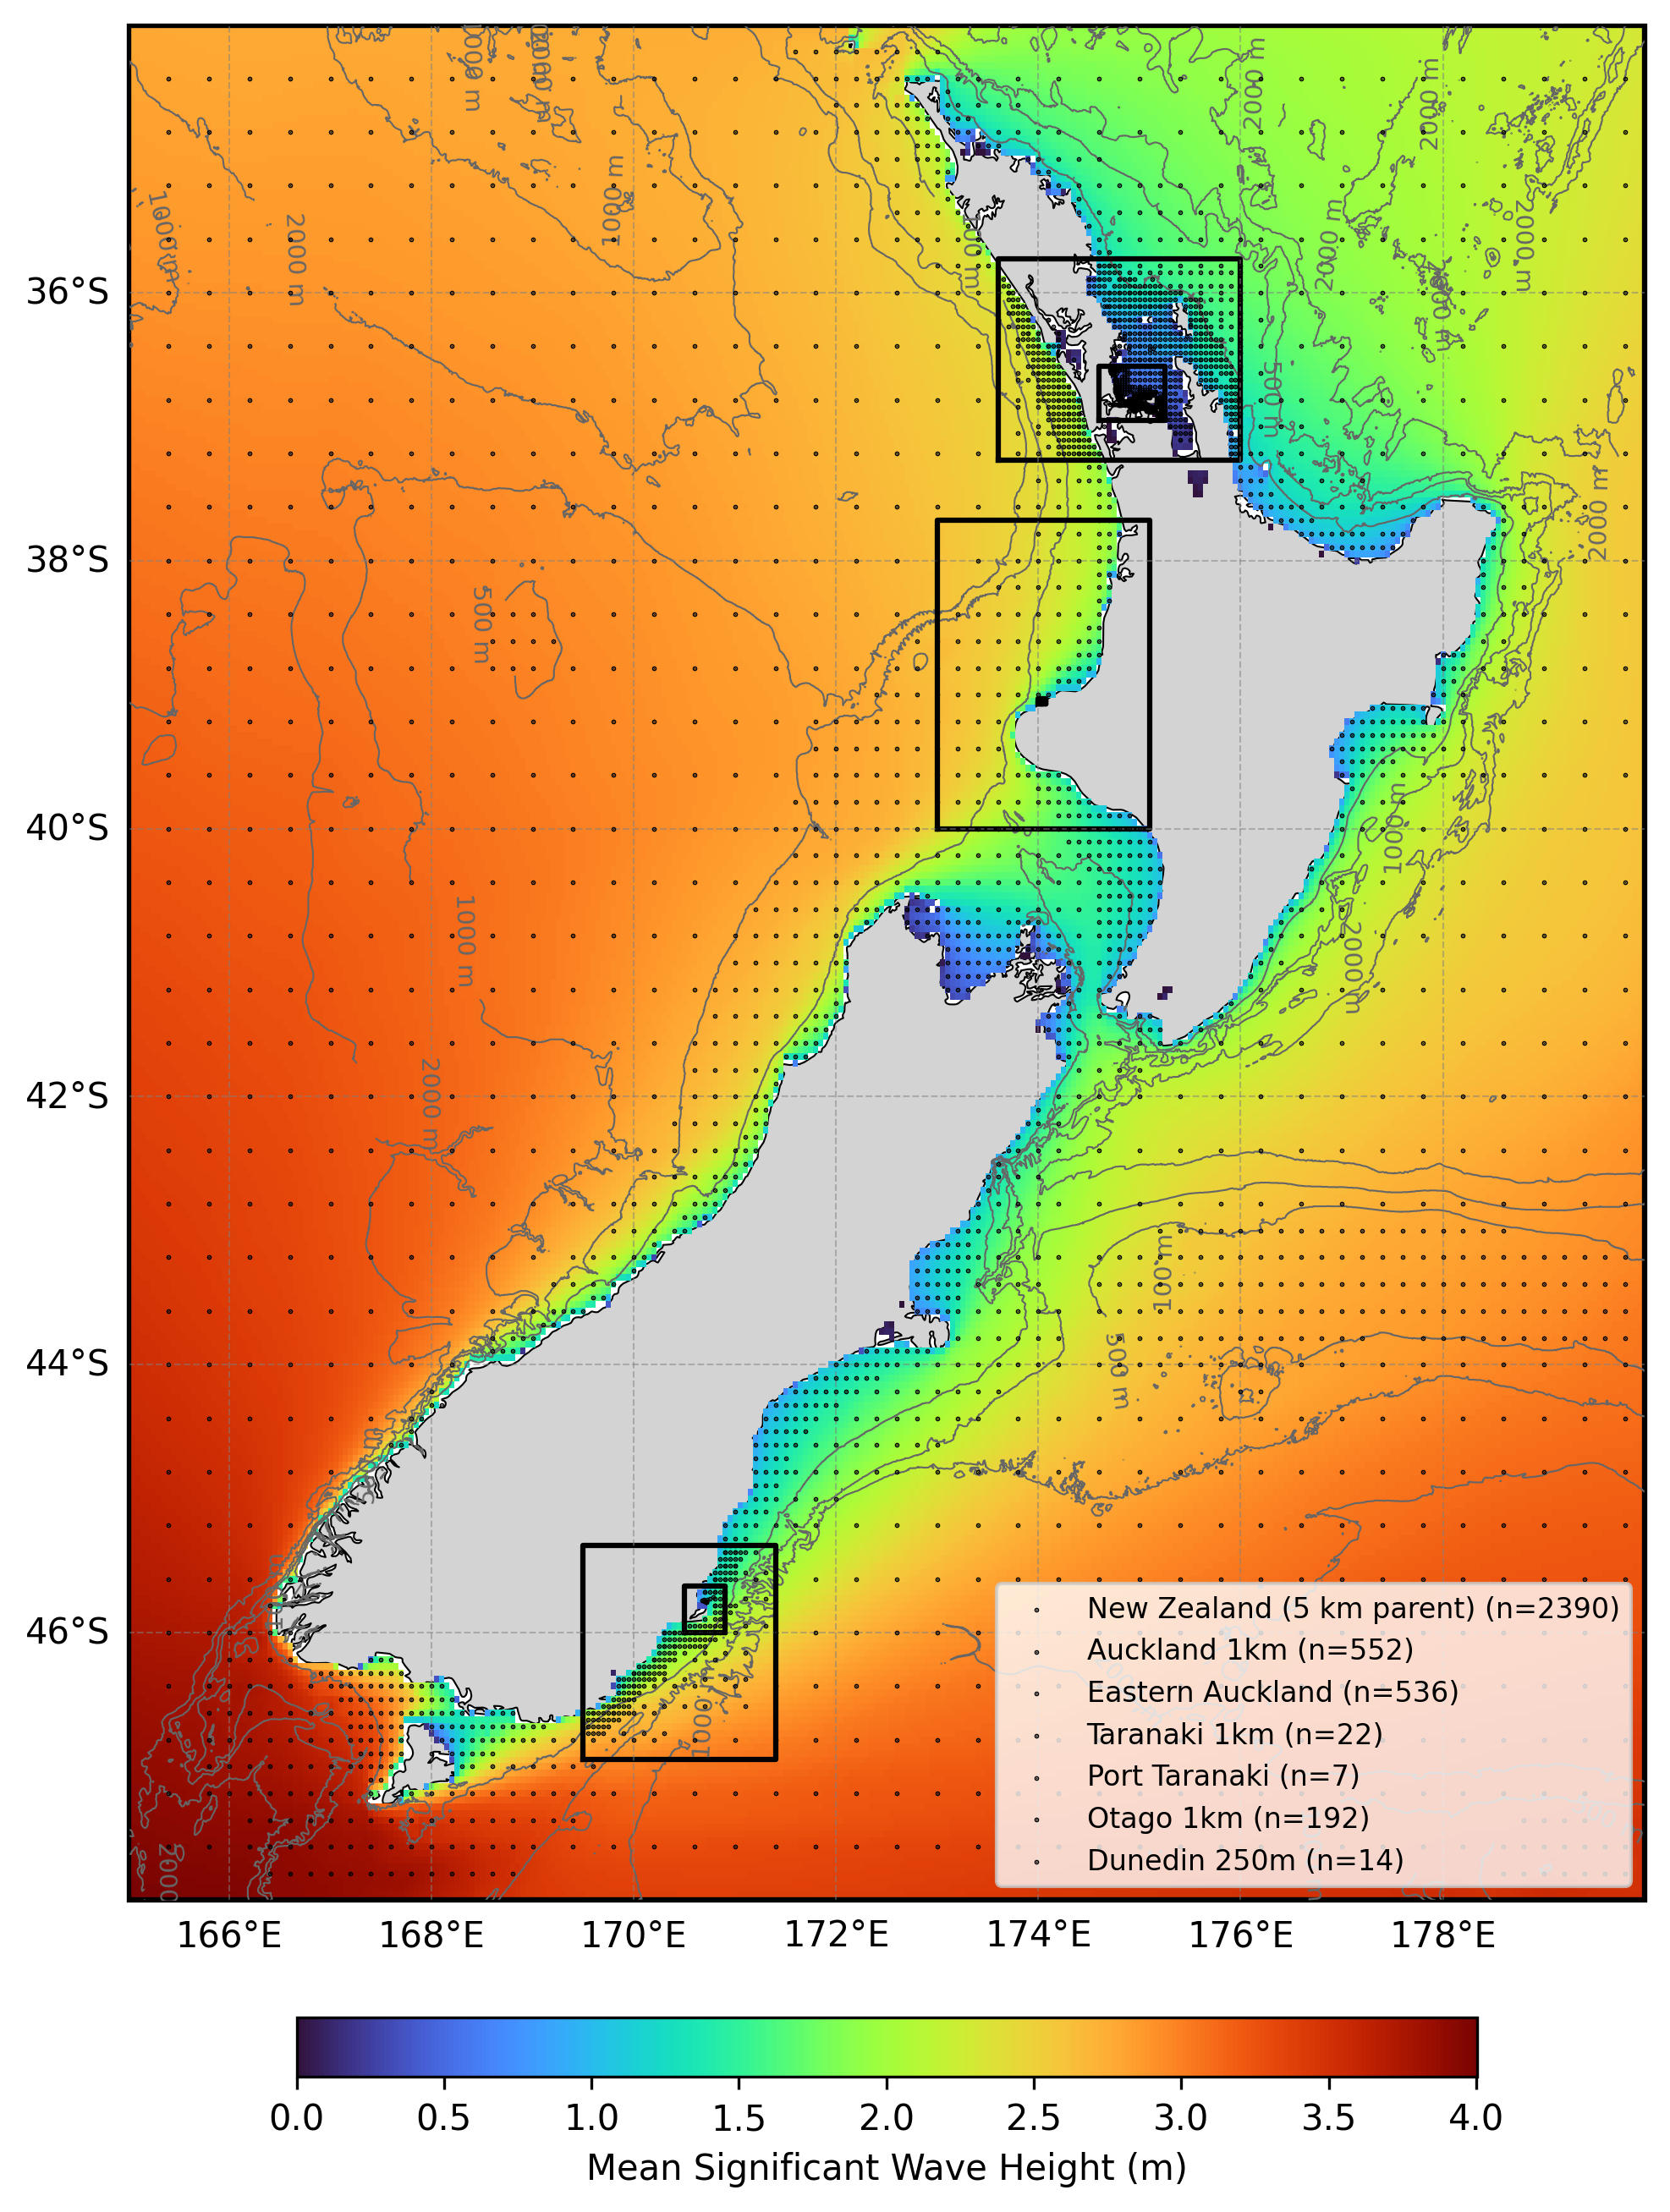
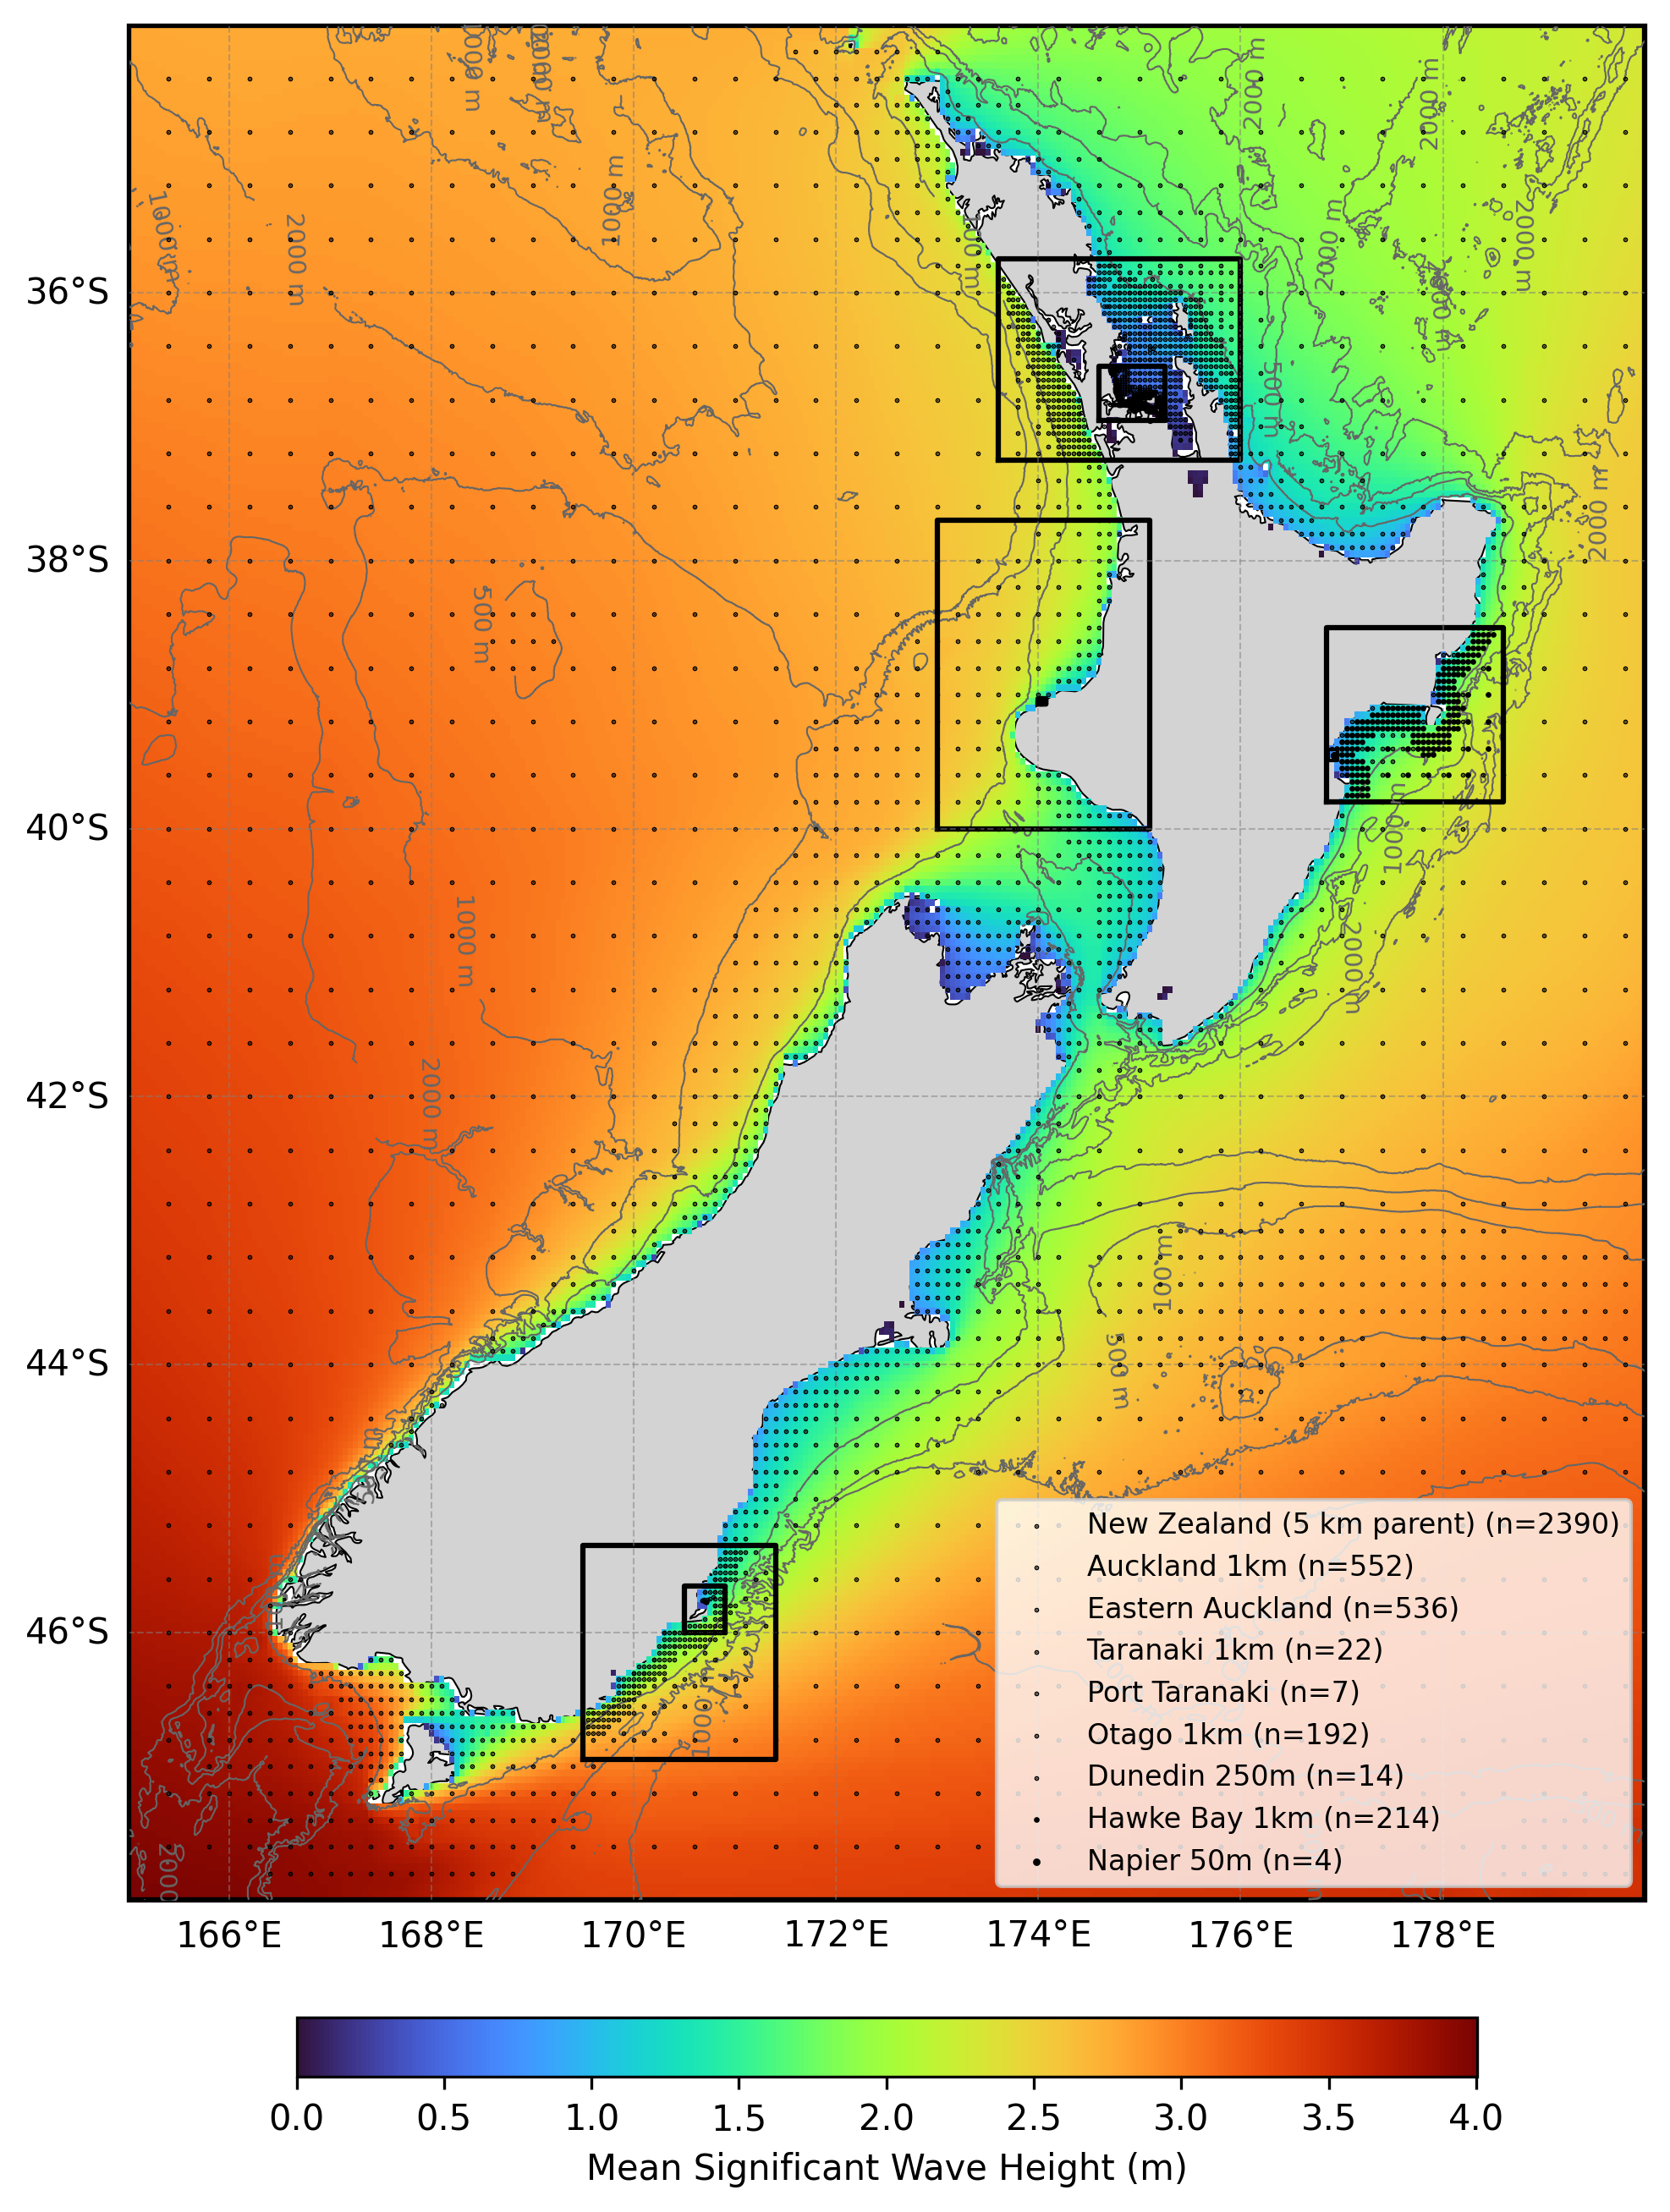
Add Hawke Bay nests

Changed region(s): [[0.5871, 0.6505, 0.9889, 0.8673], [0.7725, 0.2788, 0.9271, 0.3717]]

diff --git a/scripts/generate_figures.py b/scripts/generate_figures.py
@@ -516,6 +516,8 @@ NZ_GFS_CONFIG = FigureConfig(
         NestConfig(name="Port Taranaki",     grid_id="oceanum_wave_gfs_trkiport_grid", spec_id="oceanum_wave_gfs_trkiport_spec", color="black", site_size=0.5, linewidth=1.5),
         NestConfig(name="Otago 1km",         grid_id="oceanum_wave_gfs_otg1km_grid",  spec_id="oceanum_wave_gfs_otg1km_spec",  color="black", site_size=0.5, linewidth=1.5),
         NestConfig(name="Dunedin 250m",      grid_id="oceanum_wave_gfs_dnd250m_grid", spec_id="oceanum_wave_gfs_dnd250m_spec", color="black", site_size=0.5, linewidth=1.5),
+        NestConfig(name="Hawke Bay 1km",     grid_id="oceanum_wave_gfs_hbay_grid",    spec_id="oceanum_wave_gfs_hbay_spec_nowcast",    color="black", site_size=1.5, linewidth=1.5),
+        NestConfig(name="Napier 50m",        grid_id="oceanum_wave_gfs_napier_grid",  spec_id="oceanum_wave_gfs_napier_spec_nowcast",  color="black", site_size=5.0, linewidth=1.0),
     ],
 )
 

diff --git a/oceanum_new_zealand_wave_forecast.md b/oceanum_new_zealand_wave_forecast.md
@@ -24,7 +24,7 @@ title: Oceanum New Zealand GFS Wave Forecast
 
 ## Dataset description
 
-The New Zealand wave forecast dataset provides operational wave predictions across New Zealand's coastal waters and the surrounding Southwest Pacific Ocean (Figure 1). The forecast system comprises a hierarchy of nested domains: a regional 5 km parent grid covering all of New Zealand, with higher-resolution child grids for Auckland (1 km), Eastern Auckland (200 m), Taranaki (1 km), Port Taranaki (25 m), Otago (1 km), and Dunedin (250 m). Wave forecasts are produced using the SWAN (Simulating WAves Nearshore) third-generation spectral wave model, with a 7-day forecast horizon updated every 6 hours (00, 06, 12, 18 UTC).
+The New Zealand wave forecast dataset provides operational wave predictions across New Zealand's coastal waters and the surrounding Southwest Pacific Ocean (Figure 1). The forecast system comprises a hierarchy of nested domains: a regional 5 km parent grid covering all of New Zealand, with higher-resolution child grids for Auckland (1 km), Eastern Auckland (200 m), Taranaki (1 km), Port Taranaki (25 m), Otago (1 km), Dunedin (250 m), Hawke Bay (1 km), and Napier (50 m). Wave forecasts are produced using the SWAN (Simulating WAves Nearshore) third-generation spectral wave model, with a 7-day forecast horizon updated every 6 hours (00, 06, 12, 18 UTC).
 
 Wind forcing is provided by <a href="https://www.ncep.noaa.gov/products/gfs/" target="_blank">NOAA GFS</a> global atmospheric model. Spectral boundary conditions are supplied by the Oceanum Global WW3 wave model forced with GFS winds. Bathymetry is derived from the <a href="https://www.gebco.net/data_and_products/gridded_bathymetry_data/" target="_blank">GEBCO 2021</a> global bathymetric grid.
 
@@ -76,6 +76,8 @@ The wave model physics and calibration have been validated against satellite alt
 | Port Taranaki | 0.00025° (~25 m) | 174.000–174.070°E, 39.07–39.03°S | - |
 | Otago | 0.01° (~1 km) | 169.50–171.40°E, 46.95–45.35°S | - |
 | Dunedin | 0.0025° (~250 m) | 170.50–170.90°E, 46.00–45.65°S | - |
+| Hawke Bay | 0.01° (~1 km) | 176.85–178.60°E, 39.80–38.50°S | 214 |
+| Napier | 0.0005° (~50 m) | 176.87–176.96°E, 39.49–39.41°S | 4 |
 
 ### Linked Datamesh datasources
 
@@ -119,6 +121,18 @@ The wave model physics and calibration have been validated against satellite alt
 - <a href="https://ui.datamesh.oceanum.io/datasource/oceanum_wave_gfs_dnd250m_grid_nowcast" target="_blank">Oceanum Dunedin 250m GFS wave nowcast parameters</a>
 - <a href="https://ui.datamesh.oceanum.io/datasource/oceanum_wave_gfs_dnd250m_spec_nowcast" target="_blank">Oceanum Dunedin 250m GFS wave nowcast spectra</a>
 
+**Hawke Bay 1km:**
+- <a href="https://ui.datamesh.oceanum.io/datasource/oceanum_wave_gfs_hbay_grid" target="_blank">Oceanum Hawke Bay 1km GFS wave forecast parameters</a>
+- <a href="https://ui.datamesh.oceanum.io/datasource/oceanum_wave_gfs_hbay_spec" target="_blank">Oceanum Hawke Bay 1km GFS wave forecast spectra</a>
+- <a href="https://ui.datamesh.oceanum.io/datasource/oceanum_wave_gfs_hbay_grid_nowcast" target="_blank">Oceanum Hawke Bay 1km GFS wave nowcast parameters</a>
+- <a href="https://ui.datamesh.oceanum.io/datasource/oceanum_wave_gfs_hbay_spec_nowcast" target="_blank">Oceanum Hawke Bay 1km GFS wave nowcast spectra</a>
+
+**Napier 50m:**
+- <a href="https://ui.datamesh.oceanum.io/datasource/oceanum_wave_gfs_napier_grid" target="_blank">Oceanum Napier 50m GFS wave forecast parameters</a>
+- <a href="https://ui.datamesh.oceanum.io/datasource/oceanum_wave_gfs_napier_spec" target="_blank">Oceanum Napier 50m GFS wave forecast spectra</a>
+- <a href="https://ui.datamesh.oceanum.io/datasource/oceanum_wave_gfs_napier_grid_nowcast" target="_blank">Oceanum Napier 50m GFS wave nowcast parameters</a>
+- <a href="https://ui.datamesh.oceanum.io/datasource/oceanum_wave_gfs_napier_spec_nowcast" target="_blank">Oceanum Napier 50m GFS wave nowcast spectra</a>
+
 ---
 
 ## Gridded output parameters
@@ -157,6 +171,22 @@ Integrated wave parameters are stored hourly over the domain at the native model
 | pdir3 | peak direction of partition 3 (swell) | degree |
 | xwnd | eastward component of wind velocity | m/s |
 | ywnd | northward component of wind velocity | m/s |
+
+---
+
+## Spectra output
+
+Frequency-direction wave spectra are stored hourly at selected sites across all domains with spectra output: 2390 sites in the New Zealand 5 km parent domain, 552 in the Auckland 1 km domain, 22 in the Taranaki 1 km domain, 214 in the Hawke Bay 1 km domain, and 4 in the Napier 50 m domain. Spectra are discretised into 36 directional bins (10 degree resolution) and 32 frequency bins (0.037 - 0.71 Hz at 10% logarithmic increments).
+
+**Table 3.** Spectra output parameters.
+
+| Variable | Long Name | Units |
+|---|---|---|
+| efth | sea surface wave variance spectral density | m² s / deg |
+| lat | latitude | degrees_north |
+| lon | longitude | degrees_east |
+| freq | frequency | Hz |
+| dir | direction | degree |
 
 ---
 